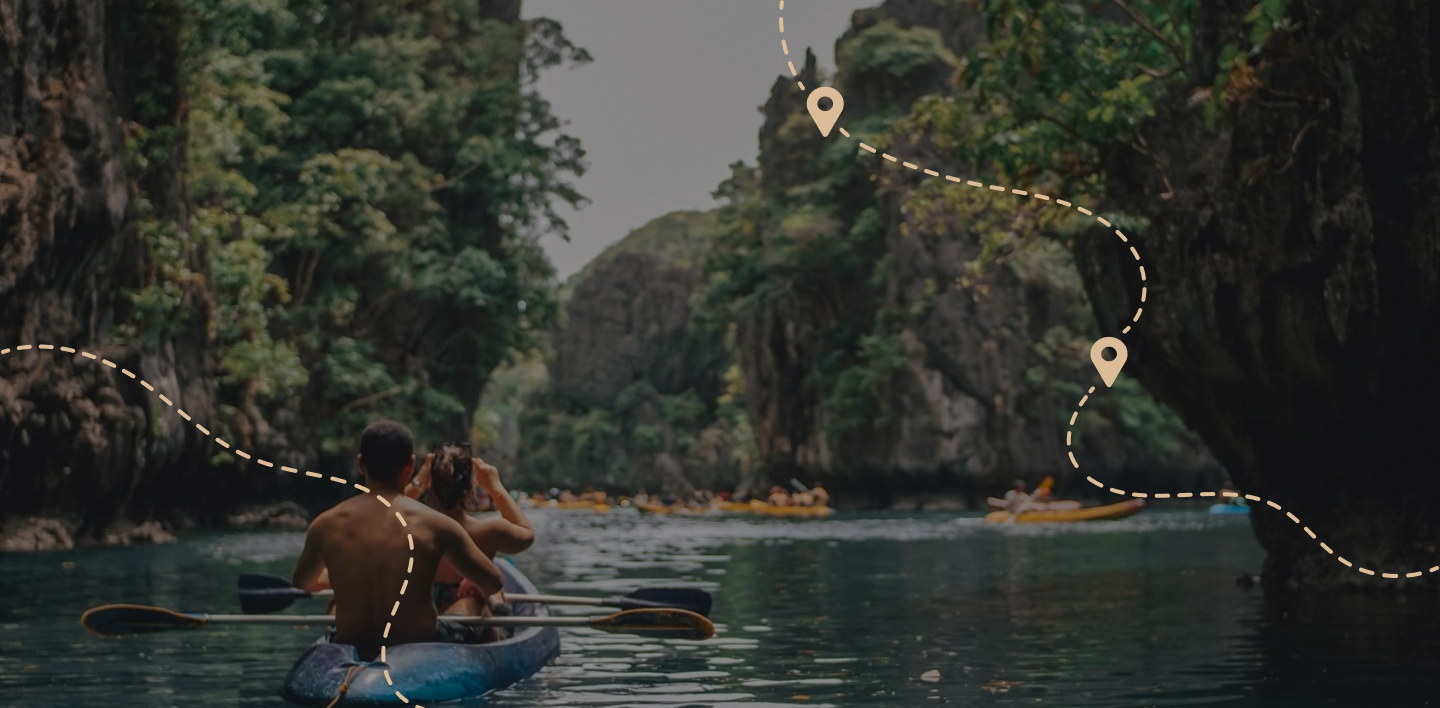
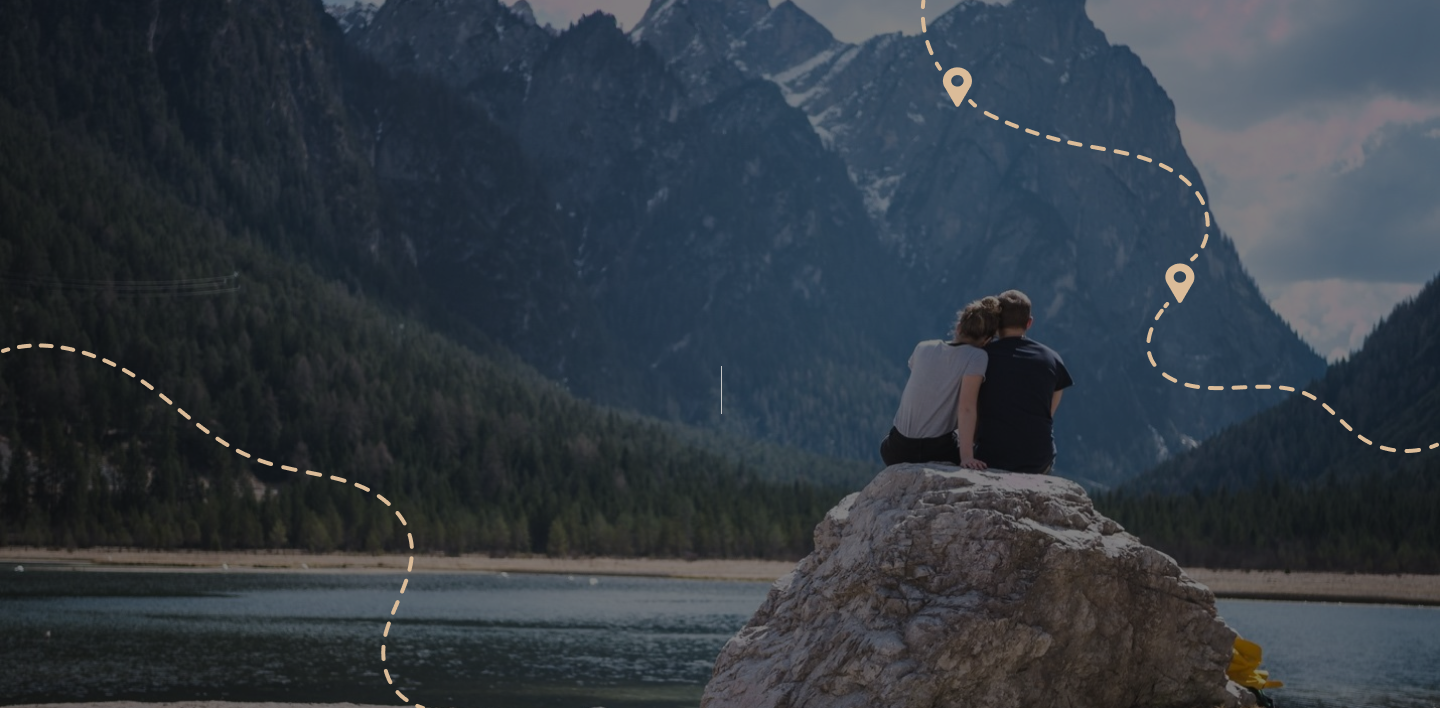
commit

diff --git a/plan-it.html b/plan-it.html
@@ -72,17 +72,17 @@
                                     <h1 class="f-45 w-400 family-alta">
                                         John Smith & Partner Honeymoon
                                     </h1>
-
+                                    <p class="f-18 text-white w-400 mx-auto">Let’s start planning your Honeymoon!</p>
                                     <p class="f-18 text-white w-400 mx-auto">
-                                        Let’s start planning your Honeymoon. Which country or countries will you visit?
-                                        This will allow us to add some custom features to your itinerary.
+                                        Which destination(s) will you be visiting? This will allow us to add some custom
+                                        features to your itinerary.
                                     </p>
                                     <div class="step-card">
-                                        <p class="mb-0">
+                                        <!-- <p class="mb-0">
                                             <input placeholder="Give your trip a name"
                                                 oninput="this.className = 'sign-input-plan  w-100 mb-3'"
                                                 class="sign-input-plan w-100 mb-3" name="fname">
-                                        </p>
+                                        </p> -->
                                         <div class="filter-input w-100 mb-3">
                                             <select class="js-example-placeholder-multiple js-states form-control"
                                                 oninput="this.className = ''" multiple="multiple" name="states[]">
@@ -100,7 +100,7 @@
                                     </h1>
 
                                     <p class="f-18 text-white w-400 mx-auto">
-                                        These are great countries to explore, good choice!
+                                        These are great places to explore, good choice!
                                     </p>
                                     <p class="f-18 text-white w-400 mx-auto">If you know when you’re going, input your
                                         dates here. If you don’t, just input the duration and you can make changes
@@ -117,21 +117,31 @@
 
                                         <div id="exactDates" class="tabcontent2 ">
                                             <div class="d-flex mt-2 ">
-                                                <input placeholder="To"
+                                                <input type="text" 
+                                                    onfocus="(this.type='date')"
+                                                    onblur="if(!this.value)this.type='text'" 
+                                                    placeholder="To"
                                                     oninput="this.className = 'sign-input-plan border-left date-input  w-50 mb-3'"
-                                                    class="sign-input-plan w-50 mb-2 border-left" name="fname">
-                                                <input placeholder="From"
-                                                    oninput="this.className = 'sign-input-plan border-right date-input  w-50 mb-3'"
-                                                    class="sign-input-plan w-50 mb-2 border-right" name="fname">
+                                                    class="sign-input-plan w-50 mb-2 border-left plan-date"
+                                                    name="fname" 
+                                                    id="date-input1">
+
+                                                <input type="text" 
+                                                    onfocus="(this.type='date')"
+                                                    onblur="if(!this.value)this.type='text'" placeholder="From"
+                                                    oninput="this.className = 'sign-input-plan border-right date-input w-50 mb-3'"
+                                                    class="sign-input-plan w-50 mb-2 border-right plan-date"
+                                                    name="fname"
+                                                    id="date-input2">
                                             </div>
-                                            <button class="mb-0 f-12 text-gray pb-0" id="clear-date"
+                                            <button type="button" class="mb-0 f-12 text-gray pb-0" 
                                                 onclick="clearDate()">Clear Date</button>
                                         </div>
 
                                         <div id="totalDays" class="tabcontent2">
                                             <input placeholder="Number of Days"
-                                                oninput="this.className = 'sign-input-plan  w-100 mb-2 mt-3'"
-                                                class="sign-input-plan w-100 mb-2 mt-3" name="fname">
+                                                oninput="this.className = 'sign-input-plan  w-100 mb-4 mt-3 '"
+                                                class="sign-input-plan w-100 mb-4 mt-3" name="fname">
                                         </div>
 
 

diff --git a/assets/css/style.css b/assets/css/style.css
@@ -173,14 +173,6 @@ body {
 a {
   text-decoration: none !important; }
 
-.btn-fill-2:hover {
-  background-color: transparent;
-  border: 1px solid #18293D;
-  color: #18293D !important; }
-
-.btn-fill-2:hover a {
-  color: #18293D !important; }
-
 @media only screen and (max-width: 710px) {
   .subscribe-btn {
     width: auto !important; } }
@@ -639,17 +631,17 @@ main .tour-card {
       flex-direction: column !important; } }
 
 .plan-header1 {
-  background: linear-gradient(to top, rgba(0, 0, 0, 0.4), rgba(0, 0, 0, 0.4)), url("/assets/images/plan/Plan Trip (12).png") !important;
+  background: linear-gradient(to top, rgba(0, 0, 0, 0.4), rgba(0, 0, 0, 0.4)), url("/assets/images/plan/Plan Trip (8).png") !important;
   background-repeat: no-repeat !important;
   background-size: cover !important; }
 
 .plan-header2 {
-  background: linear-gradient(to top, rgba(0, 0, 0, 0.4), rgba(0, 0, 0, 0.4)), url("/assets/images/plan/Plan Trip (10).png") !important;
+  background: linear-gradient(to top, rgba(0, 0, 0, 0.4), rgba(0, 0, 0, 0.4)), url("/assets/images/plan/Plan Trip (9).png") !important;
   background-repeat: no-repeat !important;
   background-size: cover !important; }
 
 .plan-header3 {
-  background: linear-gradient(to top, rgba(0, 0, 0, 0.4), rgba(0, 0, 0, 0.4)), url("/assets/images/plan/Plan Trip (8).png") !important;
+  background: linear-gradient(to top, rgba(0, 0, 0, 0.4), rgba(0, 0, 0, 0.4)), url("/assets/images/plan/Plan Trip (11).png") !important;
   background-repeat: no-repeat !important;
   background-size: cover !important; }
 
@@ -728,7 +720,7 @@ main .tour-card {
   width: 276px !important; }
 
 .btn-div {
-  margin-top: -75px !important;
+  margin-top: -85px !important;
   position: relative;
   z-index: 10;
   margin-left: 30px;
@@ -834,3 +826,11 @@ input[type="radio"]:checked::before {
 .select2-selection__choice {
   background-color: white !important;
   color: black; }
+
+.plan-date::-webkit-datetime-edit-year-field:not([aria-valuenow]),
+.plan-date::-webkit-datetime-edit-month-field:not([aria-valuenow]),
+.plan-date::-webkit-datetime-edit-day-field:not([aria-valuenow]) {
+  color: transparent; }
+
+.select2-container .select2-search--inline {
+  width: 100%; }

diff --git a/assets/sass/pages/plan-it.scss b/assets/sass/pages/plan-it.scss
@@ -1,15 +1,15 @@
 .plan-header1 {
-  background: linear-gradient(to top, rgba(0, 0, 0, 0.4), rgba(0, 0, 0, 0.4)), url('/assets/images/plan/Plan\ Trip\ \(12\).png') !important;
+  background: linear-gradient(to top, rgba(0, 0, 0, 0.4), rgba(0, 0, 0, 0.4)), url('/assets/images/plan/Plan\ Trip\ \(8\).png') !important;
   background-repeat: no-repeat !important;
   background-size: cover !important;
 }
 .plan-header2 {
-  background: linear-gradient(to top, rgba(0, 0, 0, 0.4), rgba(0, 0, 0, 0.4)), url('/assets/images/plan/Plan\ Trip\ \(10\).png') !important;
+  background: linear-gradient(to top, rgba(0, 0, 0, 0.4), rgba(0, 0, 0, 0.4)), url('/assets/images/plan/Plan\ Trip\ \(9\).png') !important;
   background-repeat: no-repeat !important;
   background-size: cover !important;
 }
 .plan-header3 {
-  background: linear-gradient(to top, rgba(0, 0, 0, 0.4), rgba(0, 0, 0, 0.4)), url('/assets/images/plan/Plan\ Trip\ \(8\).png') !important;
+  background: linear-gradient(to top, rgba(0, 0, 0, 0.4), rgba(0, 0, 0, 0.4)), url('/assets/images/plan/Plan\ Trip\ \(11\).png') !important;
   background-repeat: no-repeat !important;
   background-size: cover !important;
 }
@@ -113,6 +113,7 @@
   border-radius: 8px;
   padding-bottom: 75px;
   width: 336px;
+  
   @media only screen and (max-width:400px) {
     padding: 15px;
     width:300px;
@@ -127,7 +128,7 @@
 }
 
 .btn-div {
-  margin-top: -75px !important;
+  margin-top: -85px !important;
   position: relative;
   z-index: 10;
   margin-left: 30px;
@@ -264,4 +265,14 @@ input[type="radio"]:checked::before {
 .select2-selection__choice {
   background-color: white !important;
   color: black;
+}
+
+
+.plan-date::-webkit-datetime-edit-year-field:not([aria-valuenow]),
+.plan-date::-webkit-datetime-edit-month-field:not([aria-valuenow]),
+.plan-date::-webkit-datetime-edit-day-field:not([aria-valuenow]) {
+    color: transparent;
+}
+.select2-container .select2-search--inline{
+  width: 100%;
 }

diff --git a/assets/sass/base/utilties.scss b/assets/sass/base/utilties.scss
@@ -115,14 +115,14 @@ a{
     text-decoration:  none !important;
 }
 
-.btn-fill-2:hover {
-    background-color: transparent;
-    border: 1px solid #18293D;
-    color: #18293D !important;
-}
-.btn-fill-2:hover a {
-    color: #18293D !important;
-}
+// .btn-fill-2:hover {
+//     background-color: transparent;
+//     border: 1px solid #18293D;
+//     color: #18293D !important;
+// }
+// .btn-fill-2:hover a {
+//     color: #18293D !important;
+// }
 .subscribe-btn{
     @media only screen and (max-width:710px){
         width: auto !important;    

diff --git a/assets/js/app.js b/assets/js/app.js
@@ -11,7 +11,7 @@ function formatState (state) {
 
 // Select2 Multiple
 $('.js-example-placeholder-multiple').select2({
-    placeholder: "Select a state",
+    placeholder: "Select Destination (country, region, or city)",
     templateResult: formatState,
     templateSelection: formatState,
 });
@@ -118,5 +118,6 @@ function openTab(evt, cityName) {
 
 // clear date
 function clearDate(){
- document.getElementById('date-input').value="";
+ document.getElementById('date-input1').value="";
+ document.getElementById('date-input2').value="";
 }
